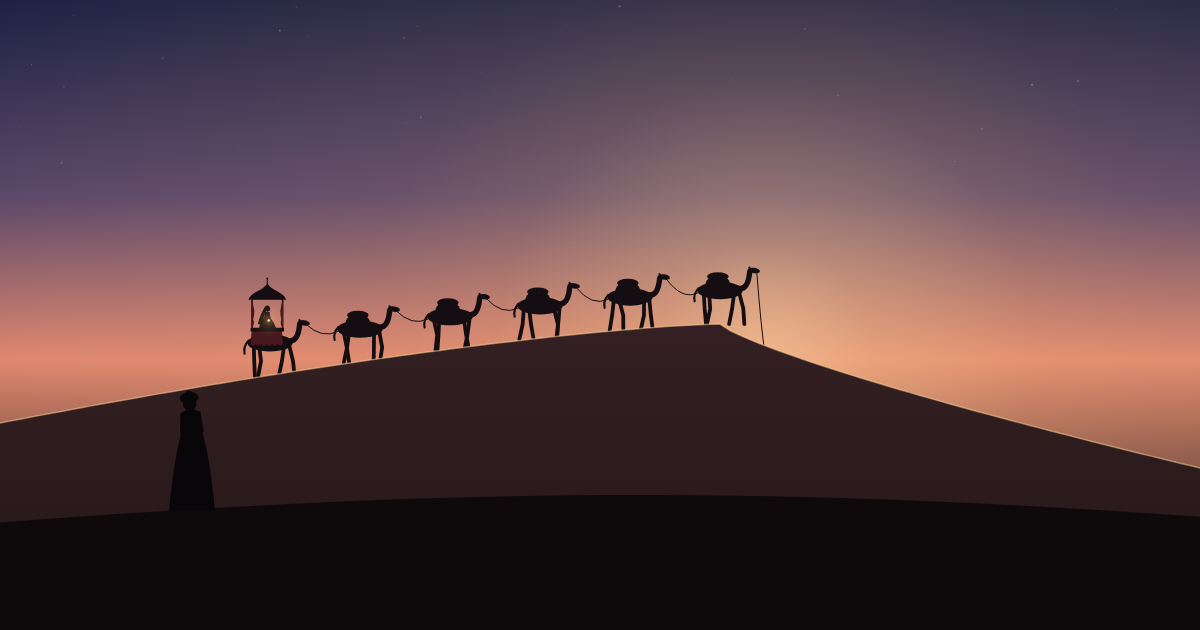
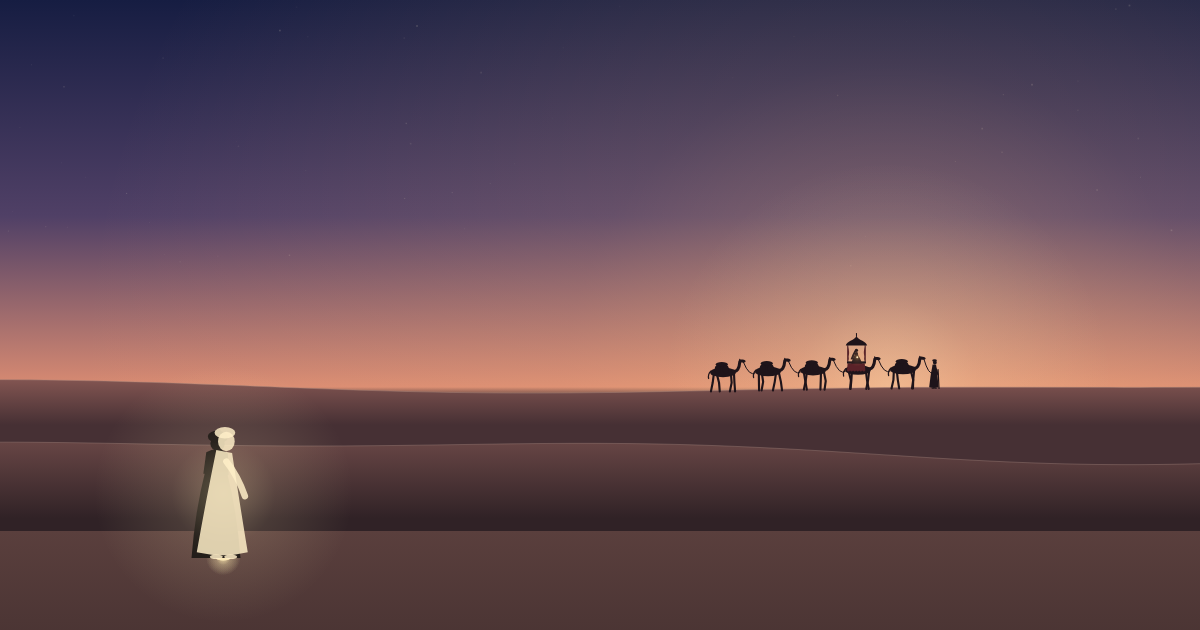
Ghazal 268: new scenes for couplets 6 (the lover as the brazier), 12 (the soul of light) and 13 (a cry with no echo); hemistichs drawn toward the middle

diff --git a/saadi/ghazal-268/index.html b/saadi/ghazal-268/index.html
@@ -83,8 +83,8 @@ button:focus-visible,a:focus-visible{outline:2px solid var(--sun);outline-offset
 .poem{display:grid;gap:4px;width:100%}
 .bayt{display:grid;grid-template-columns:1fr 1fr;gap:0 3em;align-items:baseline;background:none;border:0;padding:0 6px;border-radius:8px;color:var(--ivory);transition:background .2s,color .2s}
 .bayt span{font-size:clamp(16px,1.8vw,24px);line-height:2.4}
-.bayt span:first-child{text-align:right}
-.bayt span:last-child{text-align:left}
+.bayt span:first-child{text-align:left}
+.bayt span:last-child{text-align:right}
 .bayt:hover{background:rgba(230,190,99,.08);color:var(--sunl)}
 .outro-note{margin:0;font-style:italic;color:var(--mute);font-size:16px}
 .actions{display:flex;gap:22px;align-items:center;flex-wrap:wrap;justify-content:center;margin-top:8px}
@@ -223,11 +223,11 @@ function camel(c,x,y,s,ph,col,dir=1,o={}){c.save();c.translate(x,y);c.scale(dir,
   c.lineWidth=s*.04;c.beginPath();c.moveTo(-s*.4,-s*.66);c.quadraticCurveTo(-s*.5,-s*.55,-s*.47,-s*.42);c.stroke();c.restore()}
 // the mahmal: an open litter on the camel's hump, a small canopy on four posts with its curtains tied back, and the beloved
 // seated inside in silhouette, a long scarf moving behind; the light, when it comes, rests at the beloved's breast
-function kajaveh(c,s,col,cloth,lit,t=0){c.fillStyle=cloth;c.beginPath();c.moveTo(-s*.34,-s*.84);c.lineTo(s*.22,-s*.84);c.lineTo(s*.24,-s*.6);
+function kajaveh(c,s,col,cloth,lit,t=0,face=1){c.fillStyle=cloth;c.beginPath();c.moveTo(-s*.34,-s*.84);c.lineTo(s*.22,-s*.84);c.lineTo(s*.24,-s*.6);
   for(let i=1;i<=6;i++){const x0=lerp(.24,-.36,(i-1)/6),x1=lerp(.24,-.36,i/6);c.quadraticCurveTo((x0+x1)/2*s,-s*.53,x1*s,-s*.6)}c.closePath();c.fill();
   c.fillStyle=col;c.fillRect(-s*.36,-s*.9,s*.62,s*.07);
   // the beloved, seated facing the way they go, and the scarf blown back
-  const bx=-s*.05,by=-s*.88,bh=s*.64;c.save();c.translate(bx,by);c.fillStyle=col;
+  const bx=-s*.05,by=-s*.88,bh=s*.64;c.save();c.translate(bx,by);c.scale(face,1);c.fillStyle=col;
   c.beginPath();c.moveTo(-bh*.24,0);c.quadraticCurveTo(-bh*.22,-bh*.2,-bh*.09,-bh*.34);c.lineTo(bh*.08,-bh*.34);c.quadraticCurveTo(bh*.2,-bh*.18,bh*.26,0);c.closePath();c.fill();
   c.beginPath();c.moveTo(-bh*.09,-bh*.32);c.lineTo(-bh*.07,-bh*.48);c.quadraticCurveTo(0,-bh*.53,bh*.07,-bh*.48);c.lineTo(bh*.09,-bh*.32);c.closePath();c.fill();
   c.beginPath();c.arc(bh*.01,-bh*.58,bh*.075,0,TAU);c.fill();
@@ -238,9 +238,9 @@ function kajaveh(c,s,col,cloth,lit,t=0){c.fillStyle=cloth;c.beginPath();c.moveTo
   c.beginPath();c.moveTo(-s*.4,-s*1.42);c.bezierCurveTo(-s*.36,-s*1.56,-s*.14,-s*1.58,-s*.05,-s*1.72);c.bezierCurveTo(s*.04,-s*1.58,s*.26,-s*1.56,s*.3,-s*1.42);c.closePath();c.fill();
   c.strokeStyle=col;c.lineWidth=Math.max(1,s*.02);c.beginPath();c.moveTo(-s*.05,-s*1.7);c.lineTo(-s*.05,-s*1.8);c.stroke();c.beginPath();c.arc(-s*.05,-s*1.81,s*.02,0,TAU);c.fill();
   c.fillStyle=cloth;[[-.33,1],[.23,-1]].forEach(([u,d])=>{c.beginPath();c.moveTo(u*s-d*s*.01,-s*1.42);c.quadraticCurveTo(u*s+d*s*.07,-s*1.2,u*s+d*s*.02,-s*1.06);c.quadraticCurveTo(u*s+d*s*.05,-s*.96,u*s,-s*.9);c.lineTo(u*s-d*s*.02,-s*.9);c.lineTo(u*s-d*s*.02,-s*1.42);c.closePath();c.fill()});
-  if(lit>0){const hx=bx+bh*.04,hy=by-bh*.24;glow(c,hx,hy,s*.3,WARM,.4*lit);c.fillStyle=rgba([255,236,190],lit);c.beginPath();c.arc(hx,hy,Math.max(1,s*.022),0,TAU);c.fill()}}
+  if(lit>0){const hx=bx+bh*.04*face,hy=by-bh*.24;glow(c,hx,hy,s*.3,WARM,.4*lit);c.fillStyle=rgba([255,236,190],lit);c.beginPath();c.arc(hx,hy,Math.max(1,s*.022),0,TAU);c.fill()}}
 function camelM(c,x,y,s,ph,col,o={}){camel(c,x,y,s,ph,col,1,o);c.save();c.translate(x,y);
-  if(o.mahmal)kajaveh(c,s,col,o.cloth||col,o.lit||0,ph);
+  if(o.mahmal)kajaveh(c,s,col,o.cloth||col,o.lit||0,ph,o.face===undefined?1:o.face);
   else{c.fillStyle=col;c.beginPath();c.ellipse(-s*.04,-s*.88,s*.2,s*.08,0,0,TAU);c.fill();c.beginPath();c.ellipse(-s*.17,-s*.72,s*.1,s*.13,0,0,TAU);c.fill();c.beginPath();c.ellipse(s*.09,-s*.72,s*.1,s*.13,0,0,TAU);c.fill()}
   c.restore()}
 // where the light rests: the beloved's breast, in world coordinates
@@ -248,7 +248,7 @@ const winOf=(x,y,s)=>[x-s*.03,y-s*1.0];
 // a line of camels walking toward +x, k=0 leading; P[k]=[x,y,s]; ropes run from each nose to the saddle ahead
 function caravan(c,P,ph,col,o={}){c.strokeStyle=col;c.lineWidth=1;
   for(let k=0;k<P.length-1;k++){const[a,ay,as]=P[k],[b,by,bs]=P[k+1];c.beginPath();c.moveTo(b+.66*bs,by-.97*bs);c.quadraticCurveTo((a-.4*as+b+.66*bs)/2,Math.max(ay-.55*as,by-.97*bs)+as*.12,a-.4*as,ay-.58*as);c.stroke()}
-  for(let k=P.length-1;k>=0;k--){const[x,y,s]=P[k],m=k===o.m;camelM(c,x,y,s,ph+k*1.3,col,{mahmal:m,lit:m?o.lit:0,cloth:o.cloth})}
+  for(let k=P.length-1;k>=0;k--){const[x,y,s]=P[k],m=k===o.m;camelM(c,x,y,s,ph+k*1.3,col,{mahmal:m,lit:m?o.lit:0,cloth:o.cloth,face:o.face})}
   if(o.driver){const[x,y,s]=P[0],h=s*1.05,dx=x+s*1.02,dy=o.ground?o.ground(dx):y;c.strokeStyle=col;c.lineWidth=1;c.beginPath();c.moveTo(dx-h*.04,dy-h*.5);c.quadraticCurveTo((dx+x+s*.66)/2,Math.max(dy-h*.4,y-s*.9),x+s*.68,y-s*.97);c.stroke();walker(c,dx,dy,h,ph*1.6,o.moving!==false,col,{staff:1})}}
 function padPrint(c,x,y,s,a){if(a<=.01)return;c.fillStyle=rgba([14,12,18],.32*a);c.beginPath();c.ellipse(x-s*.22,y,s*.3,s*.2,0,0,TAU);c.ellipse(x+s*.2,y,s*.3,s*.2,0,0,TAU);c.fill()}
 function footPrint(c,x,y,s,a){if(a<=.01)return;c.fillStyle=rgba([14,12,18],.4*a);c.beginPath();c.ellipse(x,y,s,s*.34,0,0,TAU);c.fill()}
@@ -284,7 +284,7 @@ const POEM=[
  ["شب تا سحر مینَغنَوَم، واندرز کس مینَشنَوَم","وین ره نه قاصد میروم، کز کف عنانم میرود","From night till dawn I do not sleep, and I listen to no one's advice. I do not take this road by choice: the reins are slipping from my hand.","The Loose Reins"],
  ["گفتم بگریم تا اِبِل، چون خَر فرو ماند به گِل","وین نیز نتوانم که دل، با کاروانم میرود","I said I would weep until the camels stuck fast, like a donkey in mud. I cannot do even this, for my heart is going with the caravan.","The Rain"],
  ["صبر از وصال یار من، برگشتن از دلدار من","گر چه نباشد کار من، هم کار از آنم میرود","Patience without my love, turning back from the one I love: though neither is in my power, my life comes undone over them.","The Way Back"],
- ["در رفتن جان از بدن، گویند هر نوعی سخن","من خود به چشم خویشتن، دیدم که جانم میرود","Of the soul leaving the body people say every kind of thing. I saw it with my own eyes: my soul was going.","The Crest"],
+ ["در رفتن جان از بدن، گویند هر نوعی سخن","من خود به چشم خویشتن، دیدم که جانم میرود","Of the soul leaving the body people say every kind of thing. I saw it with my own eyes: my soul was going.","The Soul"],
  ["سعدی! فغان از دست ما، لایق نبود ای بیوفا!","طاقت نمیآرم جفا، کار از فغانم میرود","Saadi, it was not fitting, faithless one, to cry out against us. I cannot bear the cruelty; it has gone beyond my crying.","Saadi"]
 ];
 const NB=POEM.length,BD=18,F=1.8,TOTAL=NB*BD;
@@ -453,9 +453,10 @@ function r5(c,t,W,H){const S=Math.min(W,H),hz=H*.36,gy=H*.6;
   walker(c,fxp,fy,S*.13,t*5.4,moving,"rgb(14,12,18)",{lean:moving?.02:0});
 }
 
-/* 6. The brazier. The empty camp at night. A brass brazier full of coals is left on the sand, and its smoke goes up
-      steadily from its head and drifts off the way the caravan went. The one who stays sits beside it. */
-const COAL=randArr(6606,26,3),STONE6=randArr(6607,9,3);
+/* 6. The lover is the brazier. Night; the caravan has stopped a little way off. In the open mahmal the beloved looks back once,
+      then turns away, and the caravan moves on. The one who stays sits still, and inside their dark shape coals begin to glow,
+      brighter and brighter, until smoke rises from their head and drifts after the caravan: «چون مجمری پرآتشم کز سر دخانم میرود». */
+const COAL=randArr(6606,26,3),EMB6=randArr(6607,22,4);
 function brazier(c,x,y,s,t,heat){const by=y-s*.38,R=s*.3;
   c.strokeStyle="rgb(96,68,34)";c.lineWidth=Math.max(1.4,s*.025);c.lineCap="round";[[-.7,-.9],[0,-.1],[.7,.9]].forEach(([a,b])=>{c.beginPath();c.moveTo(x+a*R*.6,by+R*.35);c.lineTo(x+b*R*.9,y);c.stroke()});
   glow(c,x,by-R*.1,s*1.1,[255,140,70],.28*heat);
@@ -471,15 +472,26 @@ function brazier(c,x,y,s,t,heat){const by=y-s*.38,R=s*.3;
 const SMOKE=randArr(6608,46,3);
 function smoke(c,x,y,S,t,a,drift){for(let j=0;j<SMOKE.length;j++){const r=SMOKE[j],age=(t/7+j/SMOKE.length+r[0]*.02)%1;
   const px=x+drift*S*.34*age*age+Math.sin(age*5+r[1]*6+t*.4)*S*.025*age,py=y-age*S*.6,rad=S*(.012+.06*age);glow(c,px,py,rad,[150,142,146],a*.16*Math.sin(age*Math.PI)*(1-age*.4))}}
-function r6(c,t,W,H){const S=Math.min(W,H),gy=H*.56;
+let FIG6=null;
+// a seated figure with coals glowing inside it; returns the top of the head
+function emberFigure(c,x,y,h,t,heat,bow){if(!FIG6)FIG6=document.createElement("canvas");const k=2,w=Math.ceil(h*.8*k),hh=Math.ceil(h*1.02*k);if(FIG6.width!==w||FIG6.height!==hh){FIG6.width=w;FIG6.height=hh}
+  const f=FIG6.getContext("2d"),ox=h*.4,oy=h;f.setTransform(1,0,0,1,0,0);f.clearRect(0,0,w,hh);f.setTransform(k,0,0,k,0,0);
+  person(f,ox,oy,h,{kneel:1,bow,col:"rgb(14,8,8)"});
+  if(heat>0){f.globalCompositeOperation="source-atop";const cx=ox+h*.02,cy=oy-h*.26,g=f.createRadialGradient(cx,cy,0,cx,cy,h*.26);g.addColorStop(0,rgba([255,170,86],.85*heat));g.addColorStop(.45,rgba([190,56,24],.6*heat));g.addColorStop(1,rgba([40,10,8],0));f.fillStyle=g;f.fillRect(0,0,w,hh);
+    f.lineCap="round";for(const e of EMB6){const a=e[0]*TAU,r=h*.16*Math.sqrt(e[1]),fl=.5+.5*Math.sin(t*(1.5+e[2]*2.5)+e[3]*20),px=cx+Math.cos(a)*r,py=cy+Math.sin(a)*r*.9,l=h*(.02+.03*e[2]),b=e[3]*TAU;f.strokeStyle=rgba(mix([220,70,24],[255,214,130],fl),heat*(.35+.65*fl));f.lineWidth=Math.max(.6,h*.007);f.beginPath();f.moveTo(px,py);f.lineTo(px+Math.cos(b)*l,py+Math.sin(b)*l);f.lineTo(px+Math.cos(b+.9)*l*1.6,py+Math.sin(b+.9)*l*1.6);f.stroke()}
+    f.globalCompositeOperation="source-over"}
+  glow(c,x+h*.02,y-h*.26,h*.6,[255,120,60],.14*heat);c.drawImage(FIG6,x-ox,y-oy,w/k,hh/k);
+  const hd=headOf(x,y,h,1,bow);return[hd[0],hd[1]-h*.08]}
+function r6(c,t,W,H){const S=Math.min(W,H),gy=H*.55,turn=ss(3.2,5,t),heat=ss(5,11,t);
   bg(c,W,H,[[0,[5,7,18]],[.5,[16,18,34]],[1,[10,9,12]]]);stars(c,W,H,t,.8,.52);
-  hillLayer(c,W,H,gy,S*.02,[22,22,34],61);
-  const fa=.6*(1-ss(3,11,t));if(fa>0){glow(c,W*.9,hillAt(.9,gy,S*.02,61)-S*.004,S*.02,WARM,fa);c.fillStyle=rgba([255,220,160],fa);c.fillRect(W*.9-1,hillAt(.9,gy,S*.02,61)-S*.005,2,2)}
-  ground(c,W,H,gy+S*.01,[34,30,38],[16,14,18]);
-  const bx=W*.52,by=H*.61,bs=S*.22;glow(c,bx,by,S*.4,[255,150,80],.12);
-  for(const st of STONE6){c.fillStyle="rgb(40,34,36)";c.beginPath();c.ellipse(bx+(st[0]-.5)*S*.5,by+(st[1]-.3)*S*.05,S*.012*(.6+st[2]),S*.006*(.6+st[2]),0,0,TAU);c.fill()}
-  person(c,bx-S*.16,by,S*.14,{kneel:1,bow:.32,col:"rgb(20,12,12)"});
-  const top=brazier(c,bx,by,bs,t,.85);smoke(c,top[0],top[1],S,t,1,1);
+  glow(c,W*.72,gy,S*.9,[120,120,170],.22);glow(c,W*.72,gy-S*.02,S*.3,[200,200,230],.18);
+  hillLayer(c,W,H,gy,S*.02,[22,22,34],61);ground(c,W,H,gy+S*.01,[40,38,52],[16,14,18]);
+  // the caravan, halted; the beloved looks back, turns away, and they go on
+  const d=S*.02*Math.max(0,t-5.6),P=[];for(let k=0;k<4;k++){const x=W*.5+(3-k)*S*.12+d;P.push([x,H*.585,S*.1])}
+  caravan(c,P,d/(S*.02)*3.2,"rgb(10,9,14)",{m:1,lit:1,cloth:"rgb(70,28,36)",driver:1,moving:t>5.6,face:-Math.cos(Math.PI*turn)});
+  // the one who stays: coals kindle inside, and smoke goes up from the head toward the road
+  const fx=W*.2,fy=H*.62,fh=S*.2,top=emberFigure(c,fx,fy,fh,t,heat,.12);
+  smoke(c,top[0],top[1],S*.8,t,ss(7,11,t),1.2);
 }
 
 /* 7. The tent without foundation. By the brazier, now almost ash, the one who stays warms their hands at a single ember.
@@ -607,40 +619,45 @@ function r11(c,t,W,H){const S=Math.min(W,H),hz=H*.3,m=ss(0,18,t);
   const p=at(cur),sc=lerp(.6,1.1,(p[1]-hz)/(H*.7-hz));walker(c,p[0],p[1],S*.13*sc,cur/(S*.02),t<17.2,"rgb(30,22,26)",{dir:p[2]<0?-1:1});
 }
 
-/* 12. The crest (the high point). Dawn. Against the brightening sky the whole caravan climbs a great dune and goes over the crest,
-      camel after camel, bells ringing all at once; the mahmal with the light is last, and its light sinks behind the ridge.
-      The one who stays sees it go. The sky keeps brightening; the sun does not come up over the crest. */
-const SAND12=randArr(1212,50,3);
-function r12(c,t,W,H){const S=Math.min(W,H),m=ss(0,18,t),px=W*.6,py=H*.36;
-  bg(c,W,H,[[0,mix([20,26,62],[46,62,112],m)],[.22,mix([80,64,104],[150,110,130],m)],[.4,mix([220,130,110],[255,190,130],m)],[.6,[60,40,40]],[1,[20,16,18]]]);
-  stars(c,W,H,t,.5*(1-ss(0,9,t)),.2);
-  glow(c,px+S*.05,py+S*.02,S*1.1,[255,190,120],.35+.3*m);glow(c,px+S*.05,py+S*.03,S*.3,[255,230,180],.35+.4*m);
-  const Y=x=>x<px?py+(H*.47-py)*Math.pow((px-x)/px,1.4):py+(H*.52-py)*Math.pow(clamp((x-px)/(W-px)),.8);
-  // the caravan: on the near slope, then over the crest and down the far side (hidden)
-  const v=S*.047,col="rgb(20,14,18)",s=S*.06,P=[],G=x=>x<px?Y(x)+s*.02:py+(x-px)*1.5;for(let k=0;k<6;k++){const x=px-3*v-k*S*.1+v*t;P.push([x,G(x),s])}
-  caravan(c,P,t*3,col,{m:5,lit:1,cloth:"rgb(70,24,30)",driver:1,ground:G});
-  const w=winOf(...P[5]),la=1-ss(13.2,15.2,t);if(P[5][0]>px-s*.2)glow(c,w[0],Math.min(w[1],py-S*.004),S*.06,GOLDL,.5*la);
-  // the great dune, dark against the sky, its crest line catching the light
-  const dg=c.createLinearGradient(0,py,0,H);dg.addColorStop(0,"rgb(52,32,34)");dg.addColorStop(1,"rgb(20,14,16)");c.fillStyle=dg;c.beginPath();c.moveTo(0,H);for(let i=0;i<=120;i++){const x=i/120*W;c.lineTo(x,Y(x))}c.lineTo(W,H);c.closePath();c.fill();
-  c.strokeStyle=rgba([255,210,150],.5+.3*m);c.lineWidth=1.5;c.beginPath();for(let i=0;i<=120;i++){const x=i/120*W;i?c.lineTo(x,Y(x)):c.moveTo(x,Y(x))}c.stroke();
-  // sand lifting off the crest
-  for(const sd of SAND12){const q=(t*.25+sd[0])%1,x=px+(sd[1]-.3)*S*.5+q*S*.2,y=Y(x)-q*S*.03-sd[2]*S*.01;c.fillStyle=rgba([255,220,170],.4*Math.sin(q*Math.PI)*m);c.fillRect(x,y,1.2,1.2)}
-  // the near dune and the one who watches
-  const ny=x=>H*.6-S*.05*Math.sin(x/W*2.2+.4);c.fillStyle="rgb(14,10,12)";c.beginPath();c.moveTo(0,H);for(let i=0;i<=40;i++){const x=i/40*W;c.lineTo(x,ny(x))}c.lineTo(W,H);c.closePath();c.fill();
-  const fx=W*.16+S*.02*easeInOut(ss(15,16.5,t)),fh=S*.15;person(c,fx,ny(fx)+2,fh,{col:"rgb(8,6,8)",bow:-.08+.2*ss(14.5,16,t)});
+/* 12. The soul (the high point). Dawn over the open desert; the caravan is a small line on the far ridge, its bells ringing
+      all at once. Out of the standing figure a second figure of light steps free and walks away after the caravan, leaving
+      footprints of light that fade; it grows small, reaches the mahmal and becomes one with the light there. The body left
+      behind sinks to its knees. The sky keeps brightening; the sun does not come up. */
+function r12(c,t,W,H){const S=Math.min(W,H),hz=H*.43,m=ss(0,18,t);
+  bg(c,W,H,[[0,mix([16,20,52],[42,56,106],m)],[.24,mix([62,52,92],[134,102,132],m)],[.43,mix([206,124,108],[252,184,132],m)],[.44,[80,56,60]],[1,[24,18,22]]]);
+  stars(c,W,H,t,.6*(1-ss(0,10,t)),.3);glow(c,W*.74,hz,S*.9,[255,190,130],.3+.3*m);glow(c,W*.74,hz,S*.25,[255,226,180],.3+.35*m);
+  const Y=duneLayer(c,W,H,hz+S*.01,S*.02,2.3,1.1,mix([120,78,78],[168,112,96],m),[70,48,52]);
+  const s=S*.034,P=[];for(let k=0;k<5;k++){const x=W*.58+(4-k)*S*.05+t*S*.005;P.push([x,Y(x/W)+1,s])}
+  const mw=winOf(...P[1]),merge=ss(12.8,14,t);caravan(c,P,t*3,"rgb(30,20,26)",{m:1,lit:1,cloth:"rgb(90,34,40)",driver:1});
+  glow(c,mw[0],mw[1],S*.12,GOLDL,.8*merge*(1-.3*ss(15,18,t)));glow(c,mw[0],mw[1],S*.03,[255,250,230],.9*merge);
+  duneLayer(c,W,H,hz+S*.09,S*.035,.6,2.4,mix([96,64,66],[140,96,86],m),[48,34,38]);
+  ground(c,W,H,hz+S*.16,mix([80,56,56],[120,84,76],m),[36,26,28]);
+  // the soul's path, from the body out to the mahmal
+  const fx=W*.18,fy=H*.62,fh=S*.16,end=[mw[0],P[1][1]],zOf=q=>1+(fh/(s*1.05)-1)*Math.pow(q,1.8),pos=q=>{const z=zOf(q),k=(1-1/z)/(1-(s*1.05)/fh);return[lerp(fx+fh*.05,end[0],k),lerp(fy,end[1],k)]},scl=q=>fh/zOf(q);
+  for(let tt=4.4;tt<Math.min(t,13.2);tt+=.42){const q=easeInOut(ss(4,13.5,tt)),p=pos(q),sc=scl(q),a=.5*(1-ss(tt+.4,tt+4,t));if(a>.01){glow(c,p[0],p[1],sc*.12,GOLDL,a*.7);c.fillStyle=rgba([255,236,190],a);c.beginPath();c.ellipse(p[0],p[1],sc*.05,sc*.017,0,0,TAU);c.fill()}}
+  const kn=easeInOut(ss(13.5,16.5,t));person(c,fx,fy,fh,{kneel:kn,bow:.05+.3*kn,col:"rgb(12,8,10)"});
+  const e=ss(1.5,4,t),q=easeInOut(ss(4,13.5,t)),p=pos(q),sc=scl(q),a=e*(1-ss(12.8,14,t));
+  if(a>0){glow(c,p[0],p[1]-sc*.45,Math.max(sc*.9,S*.05),GOLDL,.35*a);c.globalAlpha=a*.85;walker(c,p[0],p[1],sc,t*4.6,q>0&&q<1,"rgb(255,238,200)");c.globalAlpha=1}
 }
 
-/* 13. Saadi. Morning, and the desert is empty. The wind runs over the sand and fills the caravan's tracks one after another,
-      the far ones first. One last bell, very far off. The one who stays sits where the tracks began. */
-const DRIFT13=randArr(1313,60,3);
+/* 13. Saadi. Morning, and the desert is empty; the caravan's tracks are filling with sand. The one who stays lifts their head
+      and cries out: the cry goes over the sand in rings, like wind over a dune, reaches the far dunes and fades. Nothing comes back.
+      They sit down where the tracks began. */
+const DRIFT13=randArr(1313,40,3);
 function r13(c,t,W,H){const S=Math.min(W,H),hz=H*.4;
   bg(c,W,H,[[0,[96,116,150]],[.4,[220,196,170]],[1,[110,90,80]]]);glow(c,W*.8,H*.12,S*.45,[255,236,200],.3);glow(c,W*.8,H*.12,S*.05,[255,248,230],.5);
   duneLayer(c,W,H,hz,S*.04,3.1,1.7,[200,166,132],[160,128,104]);
-  const Y2=duneLayer(c,W,H,hz+S*.09,S*.05,.4,2.9,[190,154,120],[150,118,96]);
+  duneLayer(c,W,H,hz+S*.09,S*.05,.4,2.9,[190,154,120],[150,118,96]);
   ground(c,W,H,hz+S*.16,[176,140,110],[120,94,80]);
-  for(let u=0;u<1;u+=.02){const x=lerp(W*.2,W*.9,u),y=lerp(H*.64,hz+S*.02,Math.pow(u,.6)),fade=1-ss(2+(1-u)*10,4+(1-u)*10,t);padPrint(c,x,y,S*lerp(.011,.003,u),fade)}
-  c.strokeStyle="rgba(250,236,214,.35)";c.lineWidth=1;for(const d of DRIFT13){const q=(t*(.35+d[2]*.3)+d[0])%1,x=W*(1.05-q*1.2),y=hz+d[1]*(H*.68-hz),l=S*(.03+.06*d[2]);c.beginPath();c.moveTo(x,y);c.lineTo(x+l,y+S*.002);c.stroke()}
-  person(c,W*.16,H*.625,S*.13,{kneel:1,bow:.18,col:"rgb(46,34,32)"});
+  for(let u=0;u<1;u+=.02){const x=lerp(W*.22,W*.9,u),y=lerp(H*.63,hz+S*.02,Math.pow(u,.6)),fade=1-ss(2+(1-u)*10,4+(1-u)*10,t);padPrint(c,x,y,S*lerp(.011,.003,u),fade)}
+  c.strokeStyle="rgba(250,236,214,.22)";c.lineWidth=1;for(const d of DRIFT13){const q=(t*(.35+d[2]*.3)+d[0])%1,x=W*(1.05-q*1.2),y=hz+d[1]*(H*.68-hz),l=S*(.03+.05*d[2]);c.beginPath();c.moveTo(x,y);c.lineTo(x+l,y+S*.002);c.stroke()}
+  const fx=W*.2,fy=H*.62,fh=S*.15,cry=ss(1.4,2.2,t)*(1-ss(6.5,8.5,t)),kn=easeInOut(ss(9.5,12.5,t));
+  // the cry, in rings over the sand; they reach the dunes and fade, and none returns
+  c.save();c.beginPath();c.rect(0,hz-S*.03,W,H);c.clip();
+  [2,3.4,4.8].forEach((w,i)=>{const age=t-w;if(age<=0||age>8)return;const r=age*S*.22,a=.5*(1-age/8)*ss(0,.4,age)*(1-i*.2);
+    for(let j=0;j<3;j++){const rr=r*(1-j*.035);c.strokeStyle=rgba([255,246,228],a*(1-j*.3));c.lineWidth=Math.max(1,S*.003*(1-j*.3));c.beginPath();c.ellipse(fx,fy,rr,rr*.2,0,Math.PI,TAU);c.stroke()}});
+  c.restore();
+  const bw=-.28*cry+.22*kn,col13="rgb(46,34,32)";person(c,fx,fy,fh,{kneel:kn,bow:bw,col:col13});
 }
 
 /* intro backdrop: the desert at night; a small caravan on a far ridge, one light in its mahmal */

diff --git a/CLAUDE.md b/CLAUDE.md
@@ -46,21 +46,22 @@ https://kimzify.github.io/naqsh-e-khiyal/ · repo https://github.com/Kimzify/naq
 9. A candle in a glass lantern; wind keeps throwing a moth back; the lantern door opens by itself.
 10. The hut far off in a long stormy night, one window lit with a small reader inside, until dawn.
 
-## Saadi Ghazal 268 scenes (first draft, not yet reviewed)
+## Saadi Ghazal 268 scenes (second draft; 6, 12, 13 and the visible beloved were revised after review)
+Its full-text view puts the two hemistichs close to the middle (the owner's choice); the Hafez pages still align them to the outer edges.
 One caravan leaves at dusk and is watched by the one left behind until dawn; radif «میرود». The cadence is santur plus a camel bell (درای) that sounds farther off each couplet. Umami label: `saadi-ghazal-268`.
 1. Caravan leaves the caravanserai at sunset; a small light leaves the figure and settles at the breast of the beloved, who sits visible in an open mahmal.
 2. Cold night; the caravan vanishes on the horizon; the figure sinks down in the wind; frost.
 3. Doors of the caravanserai close on the figure; red tulips with dark hearts rise on the threshold.
 4. Low moon behind the figure; long shadows; the mahmal's shadow is a lying cypress, the figure's shadow reaches after it.
 5. The mahmal's trailing cloth smooths the tracks; the figure's footprints fill in with wind.
-6. A brazier full of coals, smoke rising from its head toward the caravan's way.
+6. The beloved looks back from the mahmal, then turns away; coals kindle inside the seated lover's silhouette and smoke rises from their head.
 7. The tent's pegs pull out of the sand and it falls; one ember keeps glowing.
 8. A whirlwind rises from the ground to the sky; the figure shades their eyes.
 9. Night rider on the camel tracks, reins slipping loose; someone at the caravanserai waves them back.
 10. Rain; one camel sinks in the mud and the caravan halts, then pulls free and goes on.
 11. Footprints head home, loop round, and turn back after the caravan.
-12. Climax: dawn, the caravan crosses a great dune crest; the mahmal's light sinks behind it.
-13. Empty morning; wind fills the tracks; one far bell.
+12. Climax: dawn; a figure of light steps out of the standing lover, walks after the far caravan leaving fading light footprints, and joins the light in the mahmal; the body sinks to its knees.
+13. Empty morning; the lover cries out and the cry spreads over the sand in rings that fade at the dunes with no echo; they sit down.
 
 ## Open items
 - Umami analytics (done): one Umami site for the whole domain. Every page's `<head>` has the script with website ID `2786b32f-32db-4029-a82f-e0adbcf506d7` and `data-domains="kimzify.github.io"` so local runs aren't counted.
